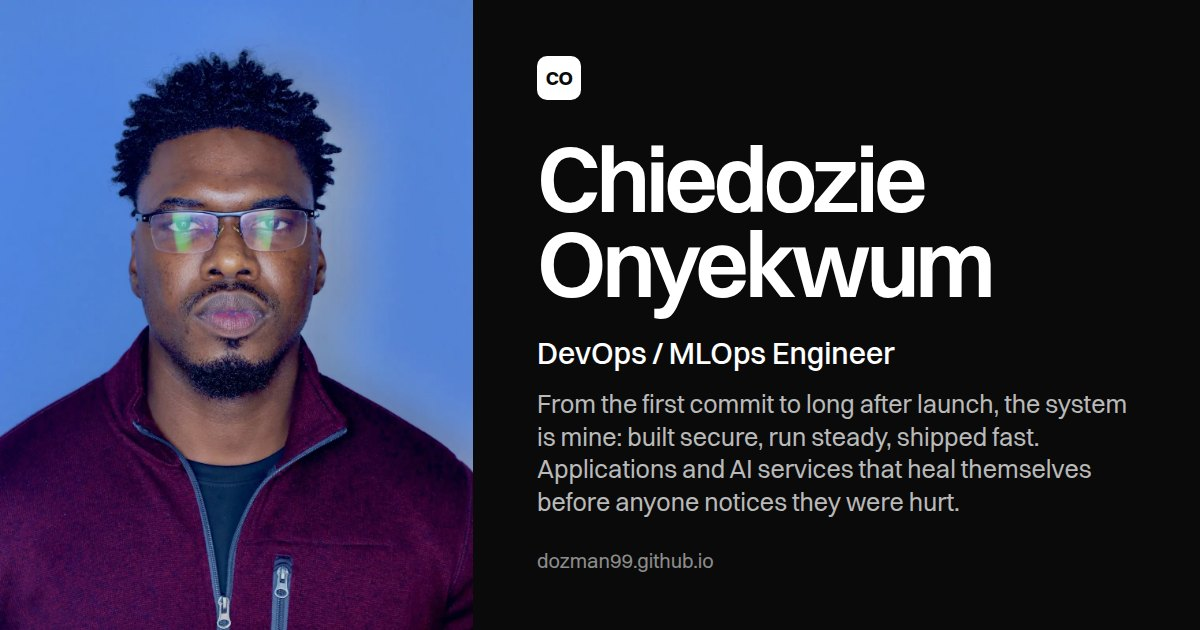
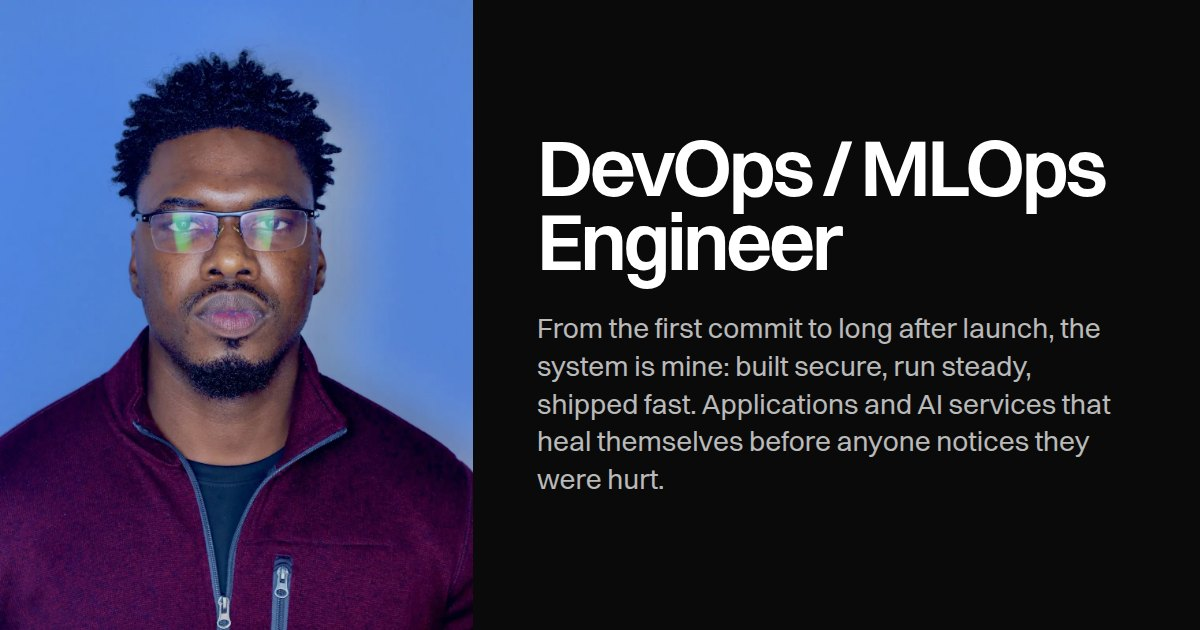
Link card: stop repeating the name and intro
The home card image now shows the photo, role and intro. The text chat
apps show under it is just the name and the address, so nothing appears
twice. The duplicate twitter: title/description/image tags are gone; X
falls back to the og: tags, and twitter:card stays for the large image.

diff --git a/src/lib/routeMeta.ts b/src/lib/routeMeta.ts
@@ -3,6 +3,7 @@ import { canvases } from "@/data/canvases"
 import { site } from "@/data/site"
 
 const SITE_SUFFIX = ` · ${site.name}`
+const SITE_HOST = "dozman99.github.io"
 
 // Per-route <title>/description, so prerendered pages aren't all identical to
 // crawlers and search engines. scripts/prerender.mjs swaps these into the
@@ -10,13 +11,28 @@ const SITE_SUFFIX = ` · ${site.name}`
 // them on client-side navigation.
 // `image` is the link-preview card in public/og/ (see design/og/render.py):
 // a story uses its own card, every other page the home card.
-export function getRouteMeta(url: string): { title: string; description: string; image: string; imageAlt: string } {
+// `shareTitle`/`shareDescription` are the text chat apps show under the card.
+// On the home page the card already shows the role and intro, so the text
+// under it is just the name and the address.
+export function getRouteMeta(url: string): {
+  title: string
+  description: string
+  shareTitle: string
+  shareDescription: string
+  image: string
+  imageAlt: string
+} {
   const meta = routeText(url)
-  const slug = url.split("?")[0].match(/^\/flagships\/([^/]+)/)?.[1]
+  const path = url.split("?")[0]
+  const share =
+    path === "/"
+      ? { shareTitle: site.name, shareDescription: SITE_HOST }
+      : { shareTitle: meta.title, shareDescription: meta.description }
+  const slug = path.match(/^\/flagships\/([^/]+)/)?.[1]
   const flagship = slug ? flagships.find((f) => f.slug === slug) : undefined
   return flagship
-    ? { ...meta, image: `/og/${flagship.slug}.jpg`, imageAlt: `${flagship.title}, by ${site.name}` }
-    : { ...meta, image: "/og/home.jpg", imageAlt: `${site.name}, ${site.role}` }
+    ? { ...meta, ...share, image: `/og/${flagship.slug}.jpg`, imageAlt: `${flagship.title}, by ${site.name}` }
+    : { ...meta, ...share, image: "/og/home.jpg", imageAlt: `${site.name}, ${site.role}` }
 }
 
 function routeText(url: string): { title: string; description: string } {

diff --git a/design/og/card.html b/design/og/card.html
@@ -14,14 +14,13 @@
   .muted { color: rgba(255, 255, 255, 0.72); }
   .faint { color: rgba(255, 255, 255, 0.55); }
 
-  /* Home: portrait on the left, name and line on black. */
+  /* Home: portrait on the left, role and intro on black. The name is the
+     chat text under the image, so it isn't repeated here. */
   .home { display: grid; grid-template-columns: 473px 1fr; height: 630px; }
   .home img { width: 473px; height: 630px; object-fit: cover; object-position: top; display: block; }
-  .home .panel { display: flex; flex-direction: column; justify-content: space-between; padding: 56px 64px; }
-  .home .name { font-size: 92px; margin-top: 8px; }
-  .home .role { font-size: 30px; font-weight: 500; margin-top: 28px; }
-  .home .line { font-size: 25px; line-height: 1.3; margin-top: 14px; max-width: 600px; }
-  .home .url { font-size: 20px; }
+  .home .panel { display: flex; flex-direction: column; justify-content: center; padding: 56px 64px; }
+  .home .role { font-size: 80px; }
+  .home .line { font-size: 28px; line-height: 1.35; margin-top: 32px; max-width: 600px; }
 
   /* Project: its photo full bleed, a dark fade from the left, text on it. */
   .project { position: relative; height: 630px; }
@@ -57,13 +56,8 @@
       <div class="home">
         <img src="../../public/portrait.webp" alt="" />
         <div class="panel">
-          <span class="mark">CO</span>
-          <div>
-            <h1 class="name">Chiedozie<br />Onyekwum</h1>
-            <p class="role">${esc(q.get("role"))}</p>
-            <p class="line muted">${esc(q.get("line"))}</p>
-          </div>
-          <p class="url faint">${esc(q.get("url"))}</p>
+          <h1 class="role name">${esc(q.get("role"))}</h1>
+          <p class="line muted">${esc(q.get("line"))}</p>
         </div>
       </div>`
   }

diff --git a/index.html b/index.html
@@ -20,17 +20,15 @@
          rewritten per route by scripts/prerender.mjs. -->
     <meta property="og:type" content="website" />
     <meta property="og:site_name" content="Chiedozie Onyekwum" />
-    <meta property="og:title" content="Chiedozie Onyekwum · DevOps / MLOps Engineer" />
-    <meta property="og:description" content="From the first commit to long after launch, the system is mine: built secure, run steady, shipped fast. Applications and AI services that heal themselves before anyone notices they were hurt." />
+    <meta property="og:title" content="Chiedozie Onyekwum" />
+    <meta property="og:description" content="dozman99.github.io" />
     <meta property="og:url" content="https://dozman99.github.io/" />
     <meta property="og:image" content="https://dozman99.github.io/og/home.jpg" />
     <meta property="og:image:width" content="1200" />
     <meta property="og:image:height" content="630" />
     <meta property="og:image:alt" content="Chiedozie Onyekwum, DevOps / MLOps Engineer" />
+    <!-- X reads the og: tags above; this only asks for the large image. -->
     <meta name="twitter:card" content="summary_large_image" />
-    <meta name="twitter:title" content="Chiedozie Onyekwum · DevOps / MLOps Engineer" />
-    <meta name="twitter:description" content="From the first commit to long after launch, the system is mine: built secure, run steady, shipped fast. Applications and AI services that heal themselves before anyone notices they were hurt." />
-    <meta name="twitter:image" content="https://dozman99.github.io/og/home.jpg" />
     <script>
       // Applied before paint to avoid a flash of the wrong theme. Light is the
       // default; the theme toggle can store "dark" or "system" instead.

diff --git a/design/og/render.py b/design/og/render.py
@@ -40,7 +40,7 @@ def render(name, params):
 os.makedirs(OUT, exist_ok=True)
 role = field(read("src/data/site.ts"), "role")
 intro = re.search(r'intro:\s*\[\s*"((?:[^"\\]|\\.)*)"', read("src/data/home.ts")).group(1)
-render("home", {"kind": "home", "role": role, "line": intro, "url": SITE})
+render("home", {"kind": "home", "role": role, "line": intro})
 
 for block in read("src/data/flagships.ts").split("  {\n")[1:]:
     slug = field(block, "slug")
